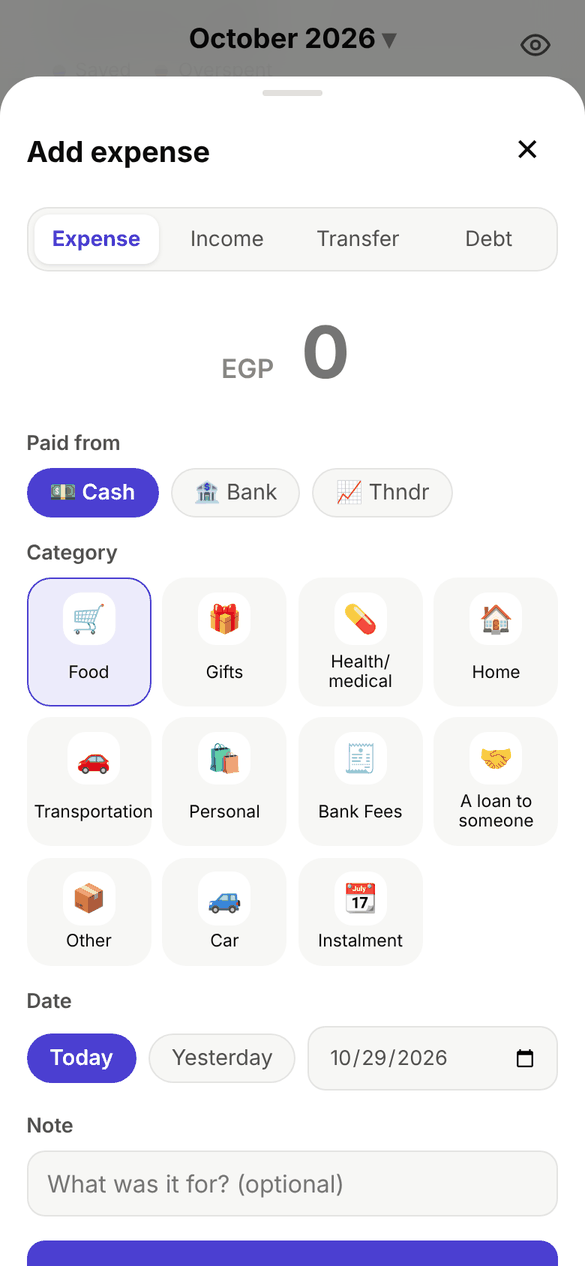
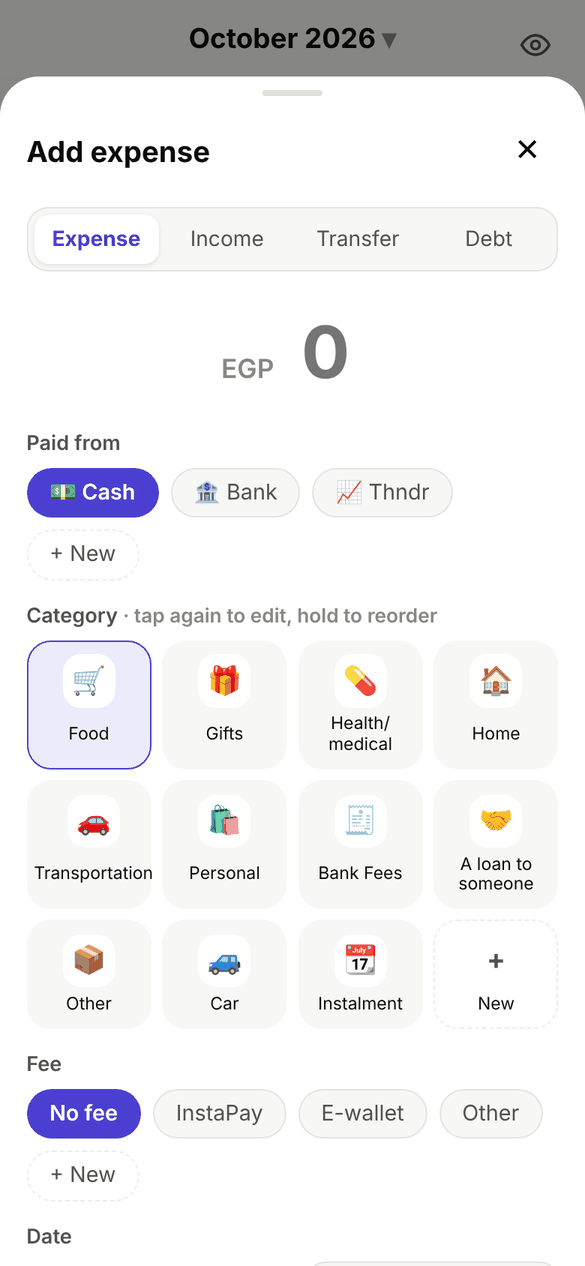
README: list every phone and watch feature, retake screenshots
Groups the phone and web features by area, adds a Galaxy Watch section
and install link, and replaces the screenshots with fresh ones of the
current app (Reports, bills, goals, alerts, transfer fees, grouped
Settings) using made-up demo data.

Claude-Session: https://claude.ai/code/session_01GoY81ftRfSgBe2ofJz8LLv

diff --git a/README.md b/README.md
@@ -6,7 +6,7 @@
 
 **Plan your month, track every pound, and see where your money went.**
 
-An Android and web app for monthly budgeting, built around the accounts,
+An Android, Galaxy Watch and web app for monthly budgeting, built around the accounts,
 debts and categories of a real "Monthly budget" Google Sheet.
 
 [![Download APK](https://img.shields.io/badge/Download-Android%20APK-3DDC84?style=for-the-badge&logo=android&logoColor=white)](https://github.com/0XZEROX0/monthly-budget/releases/latest/download/monthly-budget.apk)
@@ -16,7 +16,7 @@ debts and categories of a real "Monthly budget" Google Sheet.
 [![Web deploy](https://github.com/0XZEROX0/monthly-budget/actions/workflows/deploy.yml/badge.svg)](https://github.com/0XZEROX0/monthly-budget/actions/workflows/deploy.yml)
 
 <img src="docs/screenshots/summary.png" width="230" alt="Summary" />&nbsp;
-<img src="docs/screenshots/categories.png" width="230" alt="Spending by category" />&nbsp;
+<img src="docs/screenshots/reports.png" width="230" alt="Reports" />&nbsp;
 <img src="docs/screenshots/dark.png" width="230" alt="Dark mode with pink accent" />
 
 </div>
@@ -26,6 +26,8 @@ debts and categories of a real "Monthly budget" Google Sheet.
 ## Contents
 
 - [Features](#features)
+  - [Phone and web app](#phone-and-web-app)
+  - [Galaxy Watch app](#galaxy-watch-app)
 - [Screenshots](#screenshots)
 - [Install](#install)
 - [Tech stack](#tech-stack)
@@ -34,46 +36,118 @@ debts and categories of a real "Monthly budget" Google Sheet.
 
 ## Features
 
+### Phone and web app
+
+#### 📊 Summary
+
 | | |
 |---|---|
-| 📊 **Monthly summary** | Left to spend, a budget ring, income vs spent, how much you saved, and a spending pace line against your budget. |
-| 📝 **Budget plan** | Planned spending per category for each month, with one tap to copy last month's plan. |
-| 💸 **Transactions** | Expenses, income and transfers grouped by day, with search and All / Spent / Income / Moves filters. |
-| 🏦 **Accounts** | Cash, Bank and Thndr. Transfers move money between them without counting as spending, and Thndr shows estimated interest (5.2%) with an "Update value" button. |
-| 💳 **Debts** | Lenders with limits (e.g. TRU, Valu). Borrowing raises what you owe, repayments count toward your Instalment budget. |
-| 🔎 **Category drill-down** | Tap any category on the Summary to see just its transactions. |
-| 📆 **Bills and reminders** | Instalments (TRU, Valu) remind you every day from the due day for as many days as you choose; a bank or credit card reminds you on its one day. Mark them paid from the Summary. |
-| 🎯 **Savings goals** | Targets for bank and investment accounts (e.g. Thndr by the end of the year), with an optional deadline and how much to put away each month. |
-| ⚠ **Budget alerts** | A card and a notification when a category reaches 80% of its budget (adjustable), and again when it goes over. |
-| 📈 **Reports** | 3, 6 or 12 months of income vs spending, saved each month, capital over time, and spending by category against the period before. |
-| 💾 **Backup and export** | Back up everything to Google Drive (through Android's share menu), export transactions as CSV, and restore from a backup. |
-| 🔒 **App lock** | Fingerprint or the phone's PIN to open the Android app. |
-| 🏠 **Home screen widget** | Left to spend this month and a + button that opens the add form. |
-| 📩 **Bank SMS import** | On Android, reads card and transfer SMS from Egyptian banks (CIB and others) and holds each one under **Pending** so you review it and pick a category before it is added. |
-| 🎨 **Themes** | Seven accent colours, plus light, dark or follow-the-system. |
-| 🙈 **Privacy mode** | One tap on the eye hides balances and totals, handy in public. |
-| 🔄 **In-app updates** | The Android app updates itself: small web updates apply instantly, new APKs download inside the app. A popup at launch and a notification say when a new build is out. |
-| ☁ **Sync and offline** | Sign in with Google to sync across phone and web through Firebase. Works offline too. |
-| 📥 **Google Sheets import** | Import past months from the sheet's .xlsx export, reconciled against the sheet's own totals. |
+| **Left to spend** | A budget ring, income vs spent, how much you saved this month, and a spending pace line against your budget. |
+| **Accounts** | Cash, Bank, e-wallets, Thndr and any account type you add. Thndr and other investments show their expected interest, with an "Update value" button. |
+| **Where your money went** | Every category against its budget. Tap one to see just its transactions. |
+| **Debts** | Lenders with limits (TRU, Valu…). Borrowing raises what you owe, and repayments count toward your Instalment budget. |
+| **Trends** | Saved each month and income vs spending over the last six months. Tap a month to open it. |
+| **Your layout** | Edit layout lets you hold and drag the Summary's cards into any order and hide the ones you don't need. It syncs across devices. |
+
+#### 💸 Adding money in and out
+
+| | |
+|---|---|
+| **Expenses, income, transfers and debts** | One add form with big category icons. Transfers move money between accounts without counting as spending. |
+| **Transfer fees** | InstaPay (0.1%, EGP 0.5 to 20), e-wallet (1%), a typed fee, or your own fee templates. The fee and total show live as you type, and the fee is saved as its own expense. |
+| **Quick add** | Add a new account or category straight from the add form. |
+| **Transactions** | Grouped by day, with search and All / Spent / Income / Moves filters. |
+
+#### 📝 Planning and staying on track
+
+| | |
+|---|---|
+| **Budget plan** | Planned spending per category for each month. It saves as you type, and one tap copies last month's plan. |
+| **Bills and reminders** | Instalments (TRU, Valu) remind you every day from the due day for as many days as you choose; a bank or credit card reminds you on its day. Mark them paid from the Summary. |
+| **Savings goals** | Targets on any account (e.g. Thndr 50K by December), with an optional deadline and how much to put away each month to reach it. |
+| **Budget alerts** | A card and a notification when a category reaches 80% of its budget (adjustable), and again when it goes over. |
+| **Reports** | 3, 6 or 12 months of income vs spending, saved each month, capital over time, and spending by category against the period before. |
+
+#### 📩 Bank SMS (Android)
+
+| | |
+|---|---|
+| **Egyptian banks and e-wallets** | Reads card and transfer SMS from CIB and other Egyptian banks, any sender that shows a masked card, and e-wallets (Vodafone Cash, Orange Cash, Etisalat Cash, WE Pay, InstaPay, Telda). |
+| **Pending review** | Nothing is added on its own: each message waits under Transactions › Pending so you check it and pick a category. Entries already in the budget are skipped, and merchants remember their last category. |
+| **Notifications** | A notification when a bank SMS arrives, even with the app closed. |
+
+#### 🎨 Make it yours
+
+| | |
+|---|---|
+| **Themes** | Seven accent colours, plus light, dark or follow the system. |
+| **Categories and icons** | Rename categories, accounts and debts and pick their icons; past entries, bills and goals follow the new name. Hold and drag to reorder categories. |
+| **Decimals** | Show amounts with two decimals or as whole numbers. |
+| **Organised Settings** | Settings grouped into Money, Categories, Bills goals and alerts, Bank SMS, Look and security, Backup and import, and App. |
+
+#### 🔒 Privacy, safety and sync
+
+| | |
+|---|---|
+| **Privacy mode** | One tap on the eye hides balances and totals, handy in public. |
+| **App lock** | Fingerprint or the phone's PIN to open the Android app. |
+| **Sync and offline** | Sign in with Google to sync phone, watch and web through Firebase. Works offline too. |
+| **Backup and export** | Back up everything to Google Drive (through Android's share menu), export transactions as CSV, and restore from a backup. |
+| **Import** | Past months from the "Monthly budget" Google Sheet (.xlsx), or one-row-per-entry exports from other apps like Money Manager. |
+
+#### 📱 On your phone
+
+| | |
+|---|---|
+| **Home screen widget** | Left to spend this month and a + button that opens the add form. |
+| **In-app updates** | Small web updates apply instantly and new APKs download inside the app. A popup at launch and a notification say when a new build is out. |
+
+### Galaxy Watch app
+
+A Wear OS companion made for the Galaxy Watch 8 (any Wear OS 3+ watch works). See the
+[watch guide](docs/watch.md) for install steps.
+
+| | |
+|---|---|
+| **Pages like the phone** | Swipe between Summary, Transactions, Accounts (balances and goals), Reports and Settings. |
+| **Quick add** | Add expense or income on a keypad, pick the account and tap a category, in the same order and icons as the phone. |
+| **Favorites** | Hold a recent entry to pin it, then tap it to save it again. |
+| **Daily allowance** | "≈ X a day" for the rest of the month, and a warning when a category or the month goes over budget. |
+| **Bills and goals** | Bills due this month (tap to pay) and savings goal progress. |
+| **Tile and complication** | Left to spend on a tile with − and + buttons, and as a watch face complication. |
+| **Tap to hide** | Tap the big number to hide amounts on the watch, tile and complication. It follows the phone's eye too. |
+| **Works on its own** | Talks to Firestore directly, so entries land even with the phone app closed and wait offline until the watch is back online. It also updates itself. |
 
 ## Screenshots
 
 <table>
   <tr>
-    <td align="center"><img src="docs/screenshots/transactions.png" width="220" alt="Transactions" /><br /><sub><b>Transactions</b></sub></td>
-    <td align="center"><img src="docs/screenshots/add.png" width="220" alt="Add an expense" /><br /><sub><b>Add an expense</b></sub></td>
-    <td align="center"><img src="docs/screenshots/plan.png" width="220" alt="Budget plan" /><br /><sub><b>Budget plan</b></sub></td>
+    <td align="center"><img src="docs/screenshots/goals.png" width="220" alt="Accounts and savings goals" /><br /><sub><b>Accounts and savings goals</b></sub></td>
+    <td align="center"><img src="docs/screenshots/categories.png" width="220" alt="Where your money went" /><br /><sub><b>Where your money went</b></sub></td>
+    <td align="center"><img src="docs/screenshots/debts.png" width="220" alt="Debts and saved each month" /><br /><sub><b>Debts and saved each month</b></sub></td>
   </tr>
   <tr>
-    <td align="center"><img src="docs/screenshots/debts-trends.png" width="220" alt="Debts and trends" /><br /><sub><b>Debts and trends</b></sub></td>
-    <td align="center"><img src="docs/screenshots/themes.png" width="220" alt="Themes and settings" /><br /><sub><b>Themes and settings</b></sub></td>
-    <td align="center"><img src="docs/screenshots/privacy.png" width="220" alt="Privacy mode" /><br /><sub><b>Privacy mode</b></sub></td>
+    <td align="center"><img src="docs/screenshots/transactions.png" width="220" alt="Transactions" /><br /><sub><b>Transactions</b></sub></td>
+    <td align="center"><img src="docs/screenshots/add.png" width="220" alt="Add an expense" /><br /><sub><b>Add an expense</b></sub></td>
+    <td align="center"><img src="docs/screenshots/transfer-fee.png" width="220" alt="Transfer with fees" /><br /><sub><b>Transfer with fees</b></sub></td>
+  </tr>
+  <tr>
+    <td align="center"><img src="docs/screenshots/plan.png" width="220" alt="Budget plan" /><br /><sub><b>Budget plan</b></sub></td>
+    <td align="center"><img src="docs/screenshots/reports-capital.png" width="220" alt="Capital and spending by category" /><br /><sub><b>Capital and spending by category</b></sub></td>
+    <td align="center"><img src="docs/screenshots/settings.png" width="220" alt="Settings" /><br /><sub><b>Settings</b></sub></td>
+  </tr>
+  <tr>
+    <td align="center"><img src="docs/screenshots/dark-reports.png" width="220" alt="Reports in dark mode" /><br /><sub><b>Reports in dark mode</b></sub></td>
+    <td align="center"><img src="docs/screenshots/privacy.png" width="220" alt="Privacy mode" /><br /><sub><b>Privacy mode (teal theme)</b></sub></td>
+    <td></td>
   </tr>
 </table>
 
 ## Install
 
 **Android:** download the [latest APK](https://github.com/0XZEROX0/monthly-budget/releases/latest/download/monthly-budget.apk) and open it. You may need to allow installs from your browser, and because the app reads bank SMS, Play Protect may warn about it.
+
+**Galaxy Watch:** download the [watch APK](https://github.com/0XZEROX0/monthly-budget/releases/download/wear/monthly-budget-watch.apk) and follow the [watch guide](docs/watch.md) to install it once with adb. After that it updates itself.
 
 **Web:** open [0xzerox0.github.io/monthly-budget](https://0xzerox0.github.io/monthly-budget/) on any device. It can be installed from the browser menu as an app (PWA).
 
@@ -83,7 +157,8 @@ debts and categories of a real "Monthly budget" Google Sheet.
 - [Firebase](https://firebase.google.com): Google sign-in and Firestore with offline cache
 - [Capacitor](https://capacitorjs.com) for the Android app, with native plugins for SMS reading and updates
 - [@capgo/capacitor-updater](https://github.com/Cap-go/capacitor-updater) (self-hosted) for web updates inside the app
-- GitHub Actions: deploys the web app to GitHub Pages and builds the APK on every push to `main`
+- Kotlin and Compose for Wear OS for the Galaxy Watch app (`wear/`), with a tile and a complication
+- GitHub Actions: deploys the web app to GitHub Pages and builds the phone and watch APKs on every push to `main`
 
 ## Development
 
